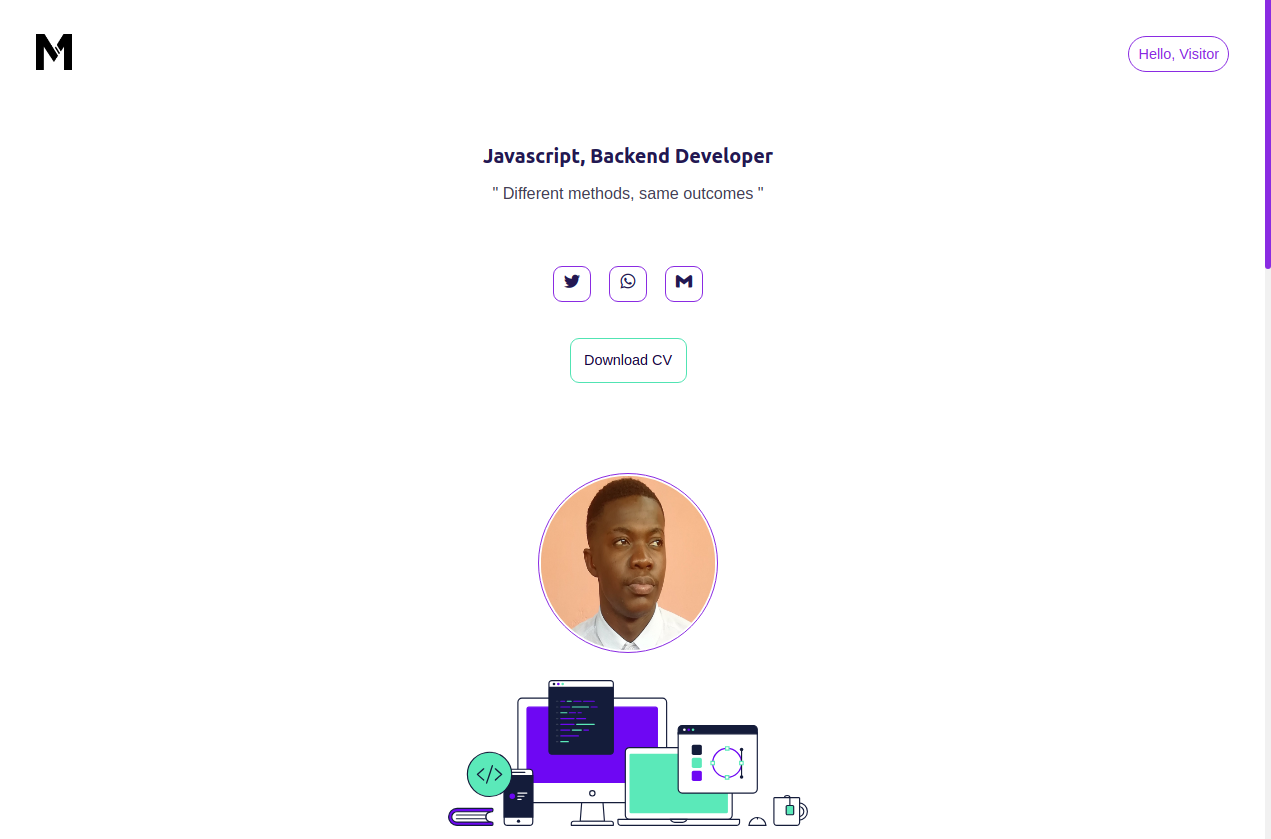
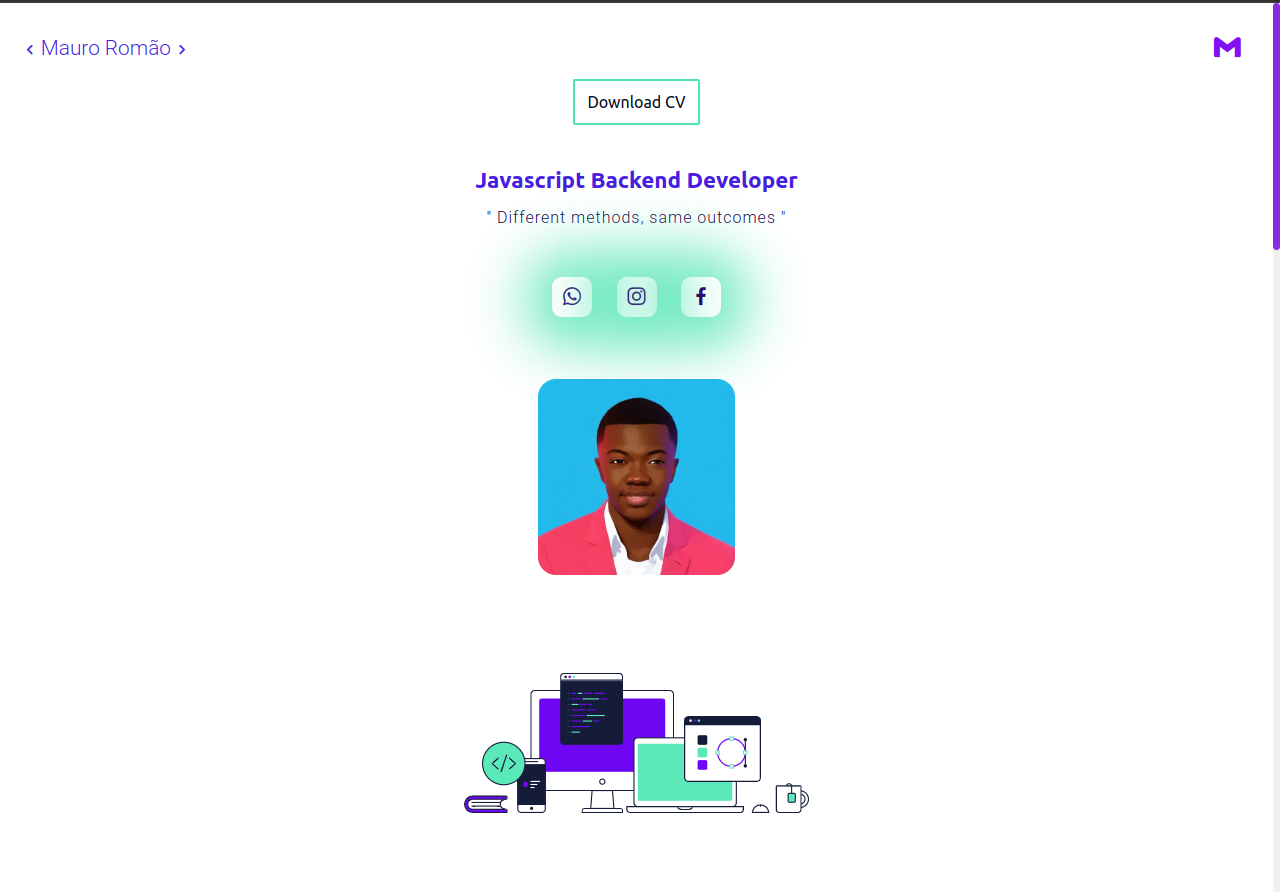
more

Changed region(s): [[0.3375, 0.062, 0.6444, 0.9917], [0.0, 0.0, 1.0, 0.093], [0.9819, 0.2789, 1.0, 0.3099]]

diff --git a/index.html b/index.html
@@ -153,48 +153,62 @@
     <div class="scroll_controller" onclick="scrollToTop()">
         <span>
             <i class="bx bx-chevron-up"></i>
+
         </span>
     </div>
     <!-- about me !! Apresentation -->
 
+    <section class="about_me">
 
-<section class="about_me">
-    
-    <div class="about_me_boxs">
-        <div class="div"></div>
-        <div class="div"></div>
-        <div class="div"></div>
-    </div>
-
-    <div class="discurse_header ">
-
-        <h1>
-            About me 💻
-        </h1>
-    </div>  
-
-    <div class="discurse_content">
-        
-        <div class="discurse_box">
+        <div class="about_me_boxs">
+            <div class="div"> <i class="bx bx-support"></i></div>
             <div class="div"></div>
             <div class="div"></div>
-            <div class="div"></div>
+        </div>
+
+        <div class="discurse_header ">
+
+            <h1>
+                About me 💻
+            </h1>
+        </div>
+
+        <div class="discurse_content">
+
+            <div class="discurse_box">
+                <div class="div">
+                    <i class="bx bx-code-alt"></i>
+                    <h3>
+                         Projects
+                    </h3>
+                    <p>+11 projects</p>
+                </div>
+                <div class="div">
+                    <i class="bx bx-code"></i>
+                    <h3>Experience</h3>
+                    <p>+2 years</p>
+                </div>
+                <div class="div">
+                    <i class="bx bx-support"></i>
+                    <h3>Support</h3>
+                    <p>24/12</p>
+                </div>
+
+            </div>
+            <p>
+                Hello, I'm Mauro Romão, a backend development enthusiast driven by innovation and a passion for
+                technological challenges. With a strong foundation in Node.js, I craft robust systems that power the
+                magic behind user experiences. Additionally, I possess expertise in databases, ensuring efficient data
+                management within these systems. I am dedicated to creating
+                high-performance technological solutions and delivering exceptional user experiences.
+
+            </p>
 
         </div>
-        <p>
-            Hello, I'm Mauro Romão, a backend development enthusiast driven by innovation and a passion for 
-            technological challenges. With a strong foundation in Node.js, I craft robust systems that power the 
-            magic behind user experiences. Additionally, I possess expertise in databases, ensuring efficient data 
-            management within these systems. I am dedicated to creating 
-            high-performance technological solutions and delivering exceptional user experiences.
-
-        </p>
-   
-    </div>
 
 
 
-</section>
+    </section>
 
     <section class="comenter">
         <h1>
@@ -234,7 +248,7 @@
                         React Native
                     </p>
                     <p>
-                      Electron
+                        Electron
                     </p>
                 </div>
                 <div class="second_front">
@@ -315,7 +329,7 @@
                 </div>
                 <div class="second_front">
                     <p>
-                        MongoDB     
+                        MongoDB
                     </p>
                     <p>
                         Firebase
@@ -361,7 +375,7 @@
                     <img src="assets/img/projects/Climate.png" alt="Shoe" />
                 </div>
                 <div class="mix air-force">
-                    <img src="assets/img/projects/Climate.png" alt="Shoe" />
+                    <img src="assets/img/projects/clinica.png" alt="Shoe" />
                 </div>
                 <div class="mix tempo">
                     <img src="assets/img/projects/port_print.png" alt="Shoe" />
@@ -413,9 +427,9 @@
 
             </div>
 
-          
 
-                 </article>
+
+            </article>
     </main>
 
 

diff --git a/assets/css/main.css b/assets/css/main.css
@@ -403,17 +403,27 @@ dialog::backdrop {
     display: flex;
     justify-content: center;
     align-items: center;
+   
 }
 
+
 .discurse_box div {
-    width: 90px;
-    height: 80px;
+    width: 150px;
+    height: 100px;
     margin-left: 10px;
     background-color: rgba(0, 0, 0, 0.4);
     border-radius: 5px;
+    color: white;
 
 }
 
+.discurse_box div i {
+    font-size: 22px;
+    margin-top: 5px;
+}
+.discurse_box div h3 {
+    font-size: 17px;
+}
 .discurse_content {
     width: 90%;
     margin: 30px auto;
@@ -540,6 +550,10 @@ dialog::backdrop {
     font-size: 16px;
 }
 
+.estruture_comenter {
+    position: absolute;
+    bottom: 0;
+}
 
 /* <!------- Mixitup LIb --> */
 
@@ -590,14 +604,13 @@ dialog::backdrop {
     margin: 0 auto;
 }
 
-.mix {
-}
+.mix {}
 
 .mix img {
-    height: 220px;
+    height: 240px;
     border: 2px solid rgb(102, 65, 224);
-    border-radius: 10px;
     padding: 5px;
+    border-radius: 20px;
 
 }
 
